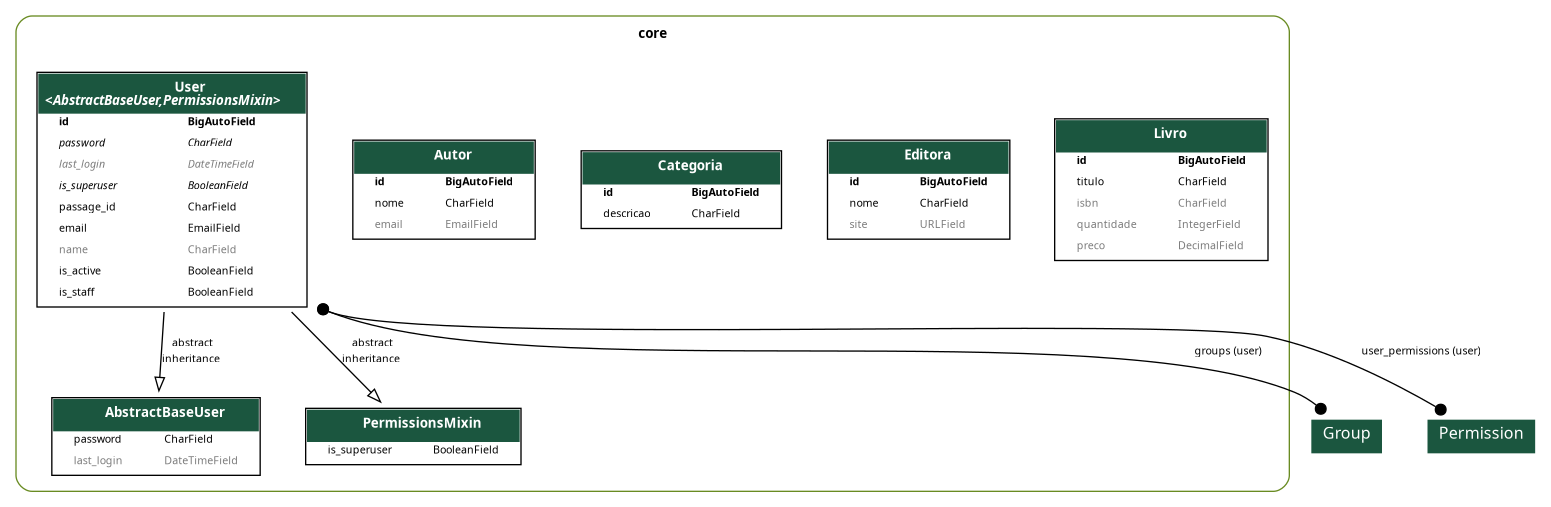
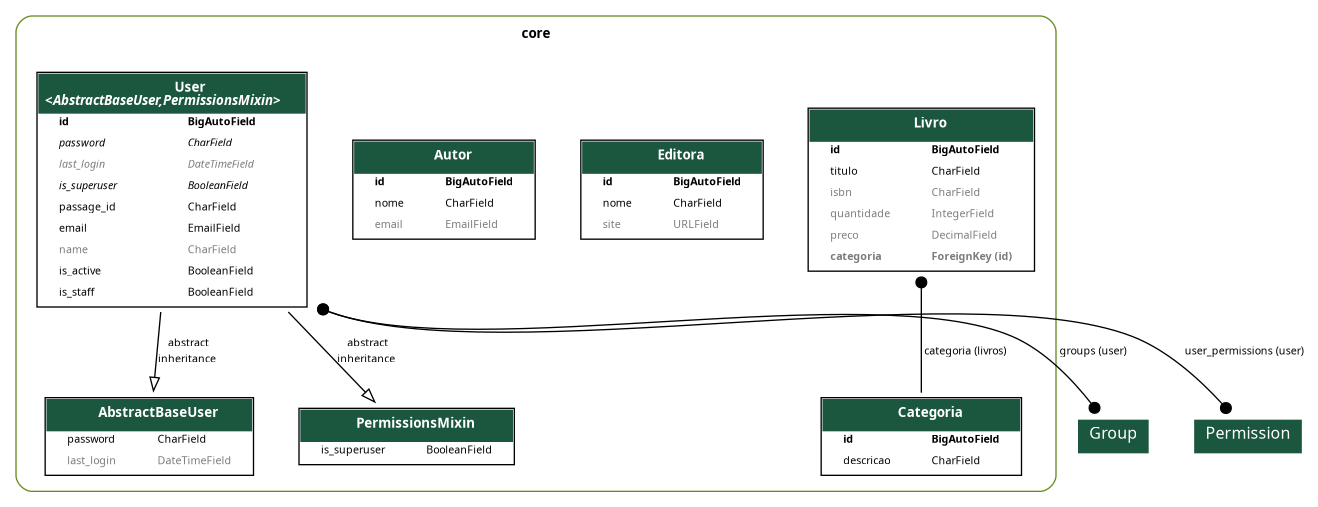
feat: inclusão do relacionamento de Livro com Categoria.

diff --git a/core/models/livro.py b/core/models/livro.py
@@ -1,11 +1,14 @@
 from django.db import models
 
+from .categoria import Categoria
+
 
 class Livro(models.Model):
     titulo = models.CharField(max_length=255)
     isbn = models.CharField(max_length=32, null=True, blank=True)
     quantidade = models.IntegerField(default=0, null=True, blank=True)
     preco = models.DecimalField(max_digits=7, decimal_places=2, default=0, null=True, blank=True)
+    categoria = models.ForeignKey(Categoria, on_delete=models.PROTECT, related_name='livros', null=True, blank=True)
 
     def __str__(self):
-        return f"({self.id}) {self.titulo} ({self.quantidade})"
+        return f'({self.id}) {self.titulo} ({self.quantidade})'

diff --git a/core/migrations/0010_livro_categoria.py b/core/migrations/0010_livro_categoria.py
@@ -1,0 +1,19 @@
+# Generated by Django 5.1.7 on 2025-04-15 11:39
+
+import django.db.models.deletion
+from django.db import migrations, models
+
+
+class Migration(migrations.Migration):
+
+    dependencies = [
+        ('core', '0009_livro_alter_autor_options'),
+    ]
+
+    operations = [
+        migrations.AddField(
+            model_name='livro',
+            name='categoria',
+            field=models.ForeignKey(blank=True, null=True, on_delete=django.db.models.deletion.PROTECT, related_name='livros', to='core.categoria'),
+        ),
+    ]
